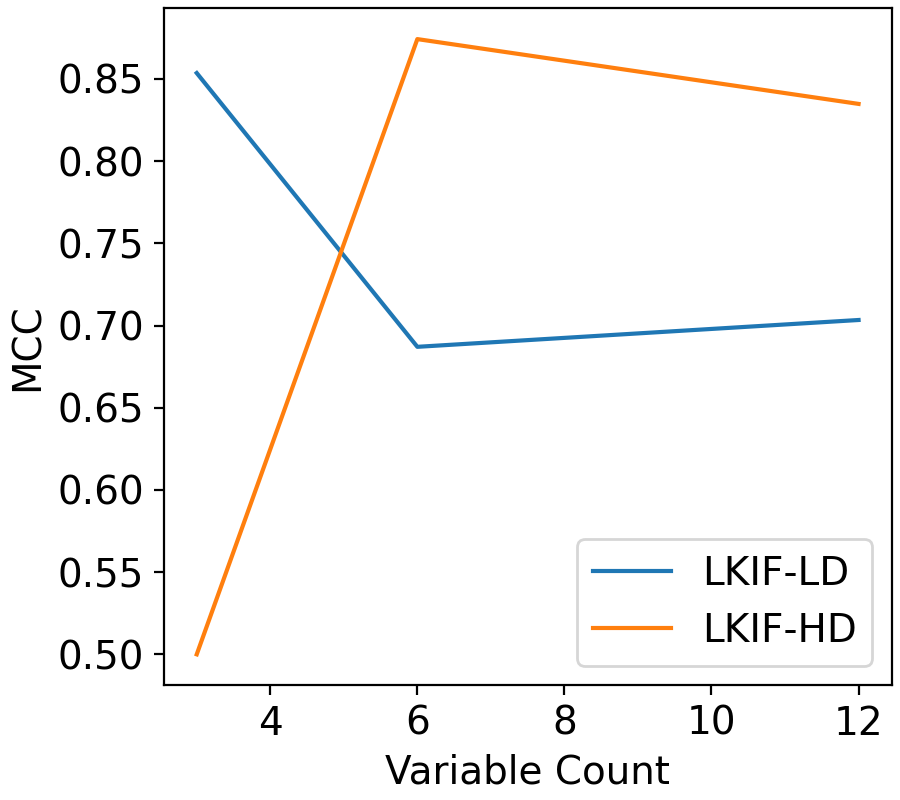
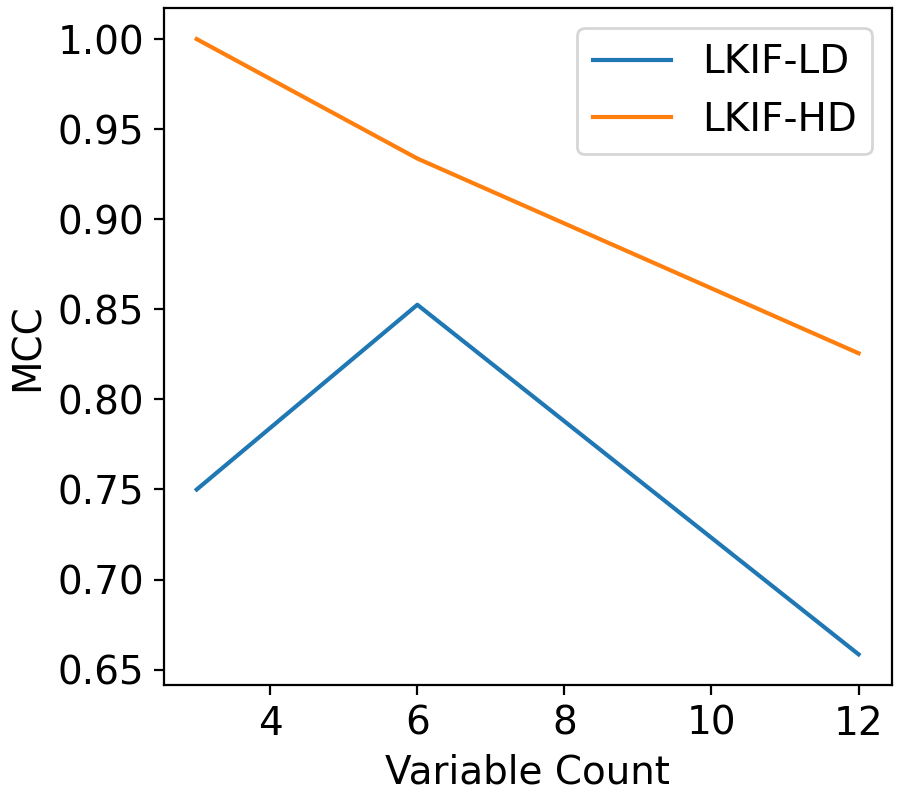
Everything ready for the big run

diff --git a/Evaluation.py b/Evaluation.py
@@ -264,7 +264,7 @@ def delay6dEvaluations(plotOnly, delaySizes, samples, alpha, randomRuns, couplSt
         truthMatrix = mediumCouplingMatrixCascade_LowDense
         fullOut = np.zeros((len(delaySizes), randomRuns, 4, 3))
 
-        seed = 0
+        seed = comm.Get_rank()
         truthMatrixVAR = mediumCouplingMatrixVAR_LowDense
         fullOutVAR = np.zeros((len(delaySizes), randomRuns, 4, 3))
         param_combs = list(product(np.arange(len(delaySizes)), np.arange(randomRuns)))
@@ -280,7 +280,7 @@ def delay6dEvaluations(plotOnly, delaySizes, samples, alpha, randomRuns, couplSt
             metrics = getMetricOfRealization(couplingMatrix = truthMatrixVAR, algorithms = ["GCSS", "LKIF", "PCMCI"], model= "VAR", 
                                                 samples = samples, alpha= alpha, couplingStrength= couplStrength * 0.1, noiseScale= 0.01, tauMax= int(delaySizes[j] * 10) + 1,
                                                 seed= seed, deltaTCascadeOutput= 0, evalType= "Full", delayLength=int(delaySizes[j] * 10), verbose=verbose)
-            seed += 1
+            seed += comm.Get_size()
             localFullVAR.append((j,i,metrics))
 
         gathered = comm.gather(localFull, root=0)
@@ -320,7 +320,7 @@ def sample6dEvaluations(plotOnly, sampleCounts, alpha, randomRuns, tauMax, coupl
         # this data should have: 3 variables, 100 runs, 2000 samples per run
         truthMatrix = mediumCouplingMatrixCascade_LowDense
         fullOut = np.zeros((len(sampleCounts), randomRuns, 4, 3))
-        seed = 0
+        seed = comm.Get_rank()
         truthMatrixVAR = mediumCouplingMatrixVAR_LowDense
         fullOutVAR = np.zeros((len(sampleCounts), randomRuns, 4, 3))
         param_combs = list(product(np.arange(len(sampleCounts)), np.arange(randomRuns)))
@@ -336,7 +336,7 @@ def sample6dEvaluations(plotOnly, sampleCounts, alpha, randomRuns, tauMax, coupl
             metrics = getMetricOfRealization(couplingMatrix = truthMatrixVAR, algorithms = ["GCSS", "LKIF", "PCMCI"], model= "VAR", 
                                                  samples = sampleCounts[j], alpha= alpha, couplingStrength= couplingStrength*0.1, noiseScale= 0.01, tauMax= tauMax,
                                                   seed= seed, deltaTCascadeOutput= 0, evalType= "Full", verbose=verbose)
-            seed += 1
+            seed += comm.Get_size()
             localFullVAR.append((j, i, metrics))
         gathered = comm.gather(localFull, root=0)
         gatheredVAR = comm.gather(localFullVAR, root = 0)
@@ -375,7 +375,7 @@ def couplStrength6dEvaluations(plotOnly, couplStrengths, samples, alpha, randomR
         # this data should have: 3 variables, 100 runs, 2000 samples per run
         truthMatrix = mediumCouplingMatrixCascade_LowDense
         fullOut = np.zeros((len(couplStrengths), randomRuns, 4, 3))
-        seed = 0
+        seed = comm.Get_rank()
         truthMatrixVAR = mediumCouplingMatrixVAR_LowDense
         fullOutVAR = np.zeros((len(couplStrengths), randomRuns, 4, 3))
         param_combs = list(product(np.arange(len(couplStrengths)), np.arange(randomRuns)))
@@ -383,15 +383,15 @@ def couplStrength6dEvaluations(plotOnly, couplStrengths, samples, alpha, randomR
         localFull = []
         localFullVAR = []
         for j,i in param_combs:
-                metrics = getMetricOfRealization(couplingMatrix = truthMatrix, algorithms = ["GCSS", "LKIF", "PCMCI"], model= "Cascade", 
-                                                 samples = samples, alpha= alpha, couplingStrength=  couplStrengths[j] * 10, noiseScale= 0.01, tauMax= tauMax,
-                                                  seed= 0, deltaTCascadeOutput= 0, evalType= "Full", verbose=verbose)
-                localFull.append((j, i, metrics))
-                metrics = getMetricOfRealization(couplingMatrix = truthMatrixVAR, algorithms = ["GCSS", "LKIF", "PCMCI"], model= "VAR", 
-                                                 samples = samples, alpha= alpha, couplingStrength= couplStrengths[j], noiseScale= 0.01, tauMax= tauMax,
-                                                  seed= seed, deltaTCascadeOutput= 0, evalType= "Full", verbose=verbose)
-                seed += 1
-                localFullVAR.append((j, i, metrics))
+            metrics = getMetricOfRealization(couplingMatrix = truthMatrix, algorithms = ["GCSS", "LKIF", "PCMCI"], model= "Cascade", 
+                                                samples = samples, alpha= alpha, couplingStrength=  couplStrengths[j] * 10, noiseScale= 0.01, tauMax= tauMax,
+                                                seed= 0, deltaTCascadeOutput= 0, evalType= "Full", verbose=verbose)
+            localFull.append((j, i, metrics))
+            metrics = getMetricOfRealization(couplingMatrix = truthMatrixVAR, algorithms = ["GCSS", "LKIF", "PCMCI"], model= "VAR", 
+                                                samples = samples, alpha= alpha, couplingStrength= couplStrengths[j], noiseScale= 0.01, tauMax= tauMax,
+                                                seed= seed, deltaTCascadeOutput= 0, evalType= "Full", verbose=verbose)
+            seed += comm.Get_size()
+            localFullVAR.append((j, i, metrics))
         gathered = comm.gather(localFull, root=0)
         gatheredVAR = comm.gather(localFullVAR, root = 0)
         if comm.Get_rank() == 0:
@@ -443,7 +443,7 @@ def system6dEvaluations(plotOnly, alpha, samples, randomRuns, tauMax, couplingSt
     
     if not plotOnly:
         fullOut = np.zeros((len(cascMatrices), randomRuns, 4, 3))
-        seed = 0
+        seed = comm.Get_rank()
         fullOutVAR = np.zeros((len(cascMatrices), randomRuns, 4, 3))
         param_combs = list(product(np.arange(len(cascMatrices)), np.arange(randomRuns)))
         param_combs = param_combs[comm.Get_rank()::comm.Get_size()]
@@ -457,7 +457,7 @@ def system6dEvaluations(plotOnly, alpha, samples, randomRuns, tauMax, couplingSt
             metrics = getMetricOfRealization(couplingMatrix = VARMatrices[j], algorithms = ["GCSS", "LKIF", "PCMCI"], model= "VAR", 
                                                  samples = samples, alpha= alpha, couplingStrength= couplingStrength*0.1, noiseScale= 0.01, tauMax= tauMax,
                                                   seed= seed, deltaTCascadeOutput= 0, evalType= "Full", verbose=verbose)
-            seed += 1
+            seed += comm.Get_size()
             localFullVAR.append((j, i, metrics))
         gathered = comm.gather(localFull, root=0)
         gatheredVAR = comm.gather(localFullVAR, root = 0)
@@ -591,7 +591,7 @@ def nonStationaryStable(plotOnly, ceilings, alpha, samples, tauMax, randomRuns, 
             dT = lambda x,t : (t <= 50) * (-0.4 / 50) * ceilings[i]
             data = DataGenerator.getCascade6dConfoundedBrainpy(dT, truthMatrix, samples, 0.001, verbose=verbose)
             # if we cross the threshold between +1 and -1, we assume tipped
-            if np.min(data[:dim]) < 0: localTipped.append(i,j,1)
+            if np.min(data[:dim]) < 0: localTipped.append((i,j,1))
             matrices = getMetricOfRealization(couplingMatrix = truthMatrix, algorithms = ["GCSS", "LKIF", "PCMCI"], model= "None", 
                                                 samples = samples, alpha= alpha, couplingStrength= 1, noiseScale= 0.01, tauMax= tauMax,
                                                 seed= 0, deltaTCascadeOutput= 0, evalType= "Full", fullData = data.T, returnMatrices=True, verbose=verbose)
@@ -1350,7 +1350,7 @@ def main():
     comm = MPI.COMM_WORLD
 
     plotOnly = False
-    randomRuns = 2
+    randomRuns = 100
     alpha = 0.05
     samples = 1000
     couplingStrength = 1
@@ -1364,7 +1364,7 @@ def main():
     couplingStrength=couplingStrength, 
     verbose=False,
     comm=comm)
-    print("Sample Evaluation finished")
+    if comm.Get_rank() == 0: print("Sample Evaluation finished")
 
     couplStrength6dEvaluations(plotOnly = plotOnly,
     couplStrengths = np.array([0.01, 0.02, 0.05, 0.07,0.1,0.15,0.2,0.25,0.3]),
@@ -1374,7 +1374,7 @@ def main():
     tauMax = tauMax, 
     verbose=False,
     comm=comm)
-    print("Coupling Strength Evaluation finished")
+    if comm.Get_rank() == 0: print("Coupling Strength Evaluation finished")
 
     delay6dEvaluations(plotOnly = plotOnly,
     delaySizes = [0,0.1, 0.2, 0.3, 0.4, 0.5, 0.6,0.7,0.8,0.9,1.0, 1.5,2.0,3.0],
@@ -1384,7 +1384,7 @@ def main():
     couplStrength=couplingStrength, 
     verbose=False,
     comm=comm)
-    print("Delay Evaluation finished")
+    if comm.Get_rank() == 0: print("Delay Evaluation finished")
 
     system6dEvaluations(plotOnly = plotOnly,
     alpha = alpha,
@@ -1394,7 +1394,7 @@ def main():
     couplingStrength=couplingStrength, 
     verbose=False,
     comm=comm)
-    print("System Size/Density Evaluation finished")
+    if comm.Get_rank() == 0: print("System Size/Density Evaluation finished")
 
     nonStationaryStable(plotOnly = plotOnly,
     ceilings = [0, 0.1, 0.2, 0.3, 0.4, 0.5, 0.6, 0.7, 0.8, 0.9, 1.0],
@@ -1404,7 +1404,7 @@ def main():
     randomRuns = randomRuns, 
     verbose=False,
     comm=comm)
-    print("Non-Stationarity Evaluation finished")
+    if comm.Get_rank() == 0: print("Non-Stationarity Evaluation finished")
 
 if __name__ == "__main__":
     main()
